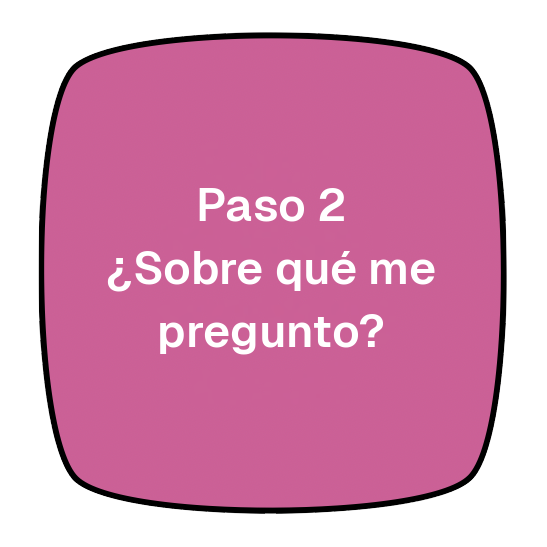
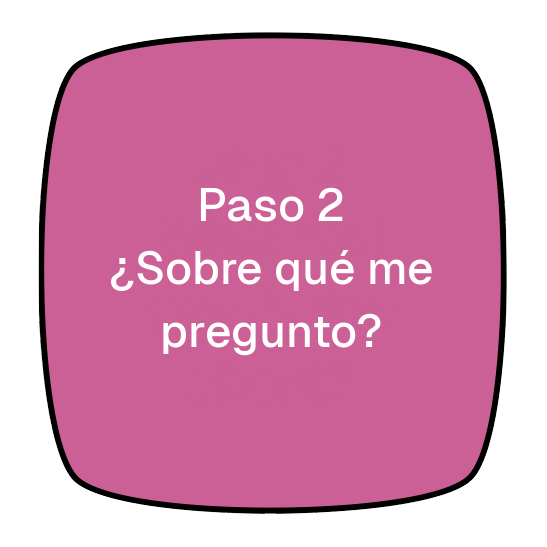
Step tiles: lighter weight — Geist Medium (en/es), Noto CJK Regular (zh); ?v=3

diff --git a/hopscotch-ui/src/App.jsx b/hopscotch-ui/src/App.jsx
@@ -238,7 +238,7 @@ const STEP_TILE_LANGS = ["es", "zh"];
 function StepDiagram({ activeStep, completedSteps = [], onStepChange, lockedSteps = [] }) {
   const { lang, t } = useLang();
   // bump ?v= when tile images change in place, so CDN/browser caches refetch
-  const stepImg = (n) => (STEP_TILE_LANGS.includes(lang) ? `/steps/${lang}/Step${n}.png?v=2` : `/Step${n}.png?v=2`);
+  const stepImg = (n) => (STEP_TILE_LANGS.includes(lang) ? `/steps/${lang}/Step${n}.png?v=3` : `/Step${n}.png?v=3`);
   return (
     <div className="hop-diagram">
       {HOPSCOTCH_COLUMNS.map((col, ci) => (
